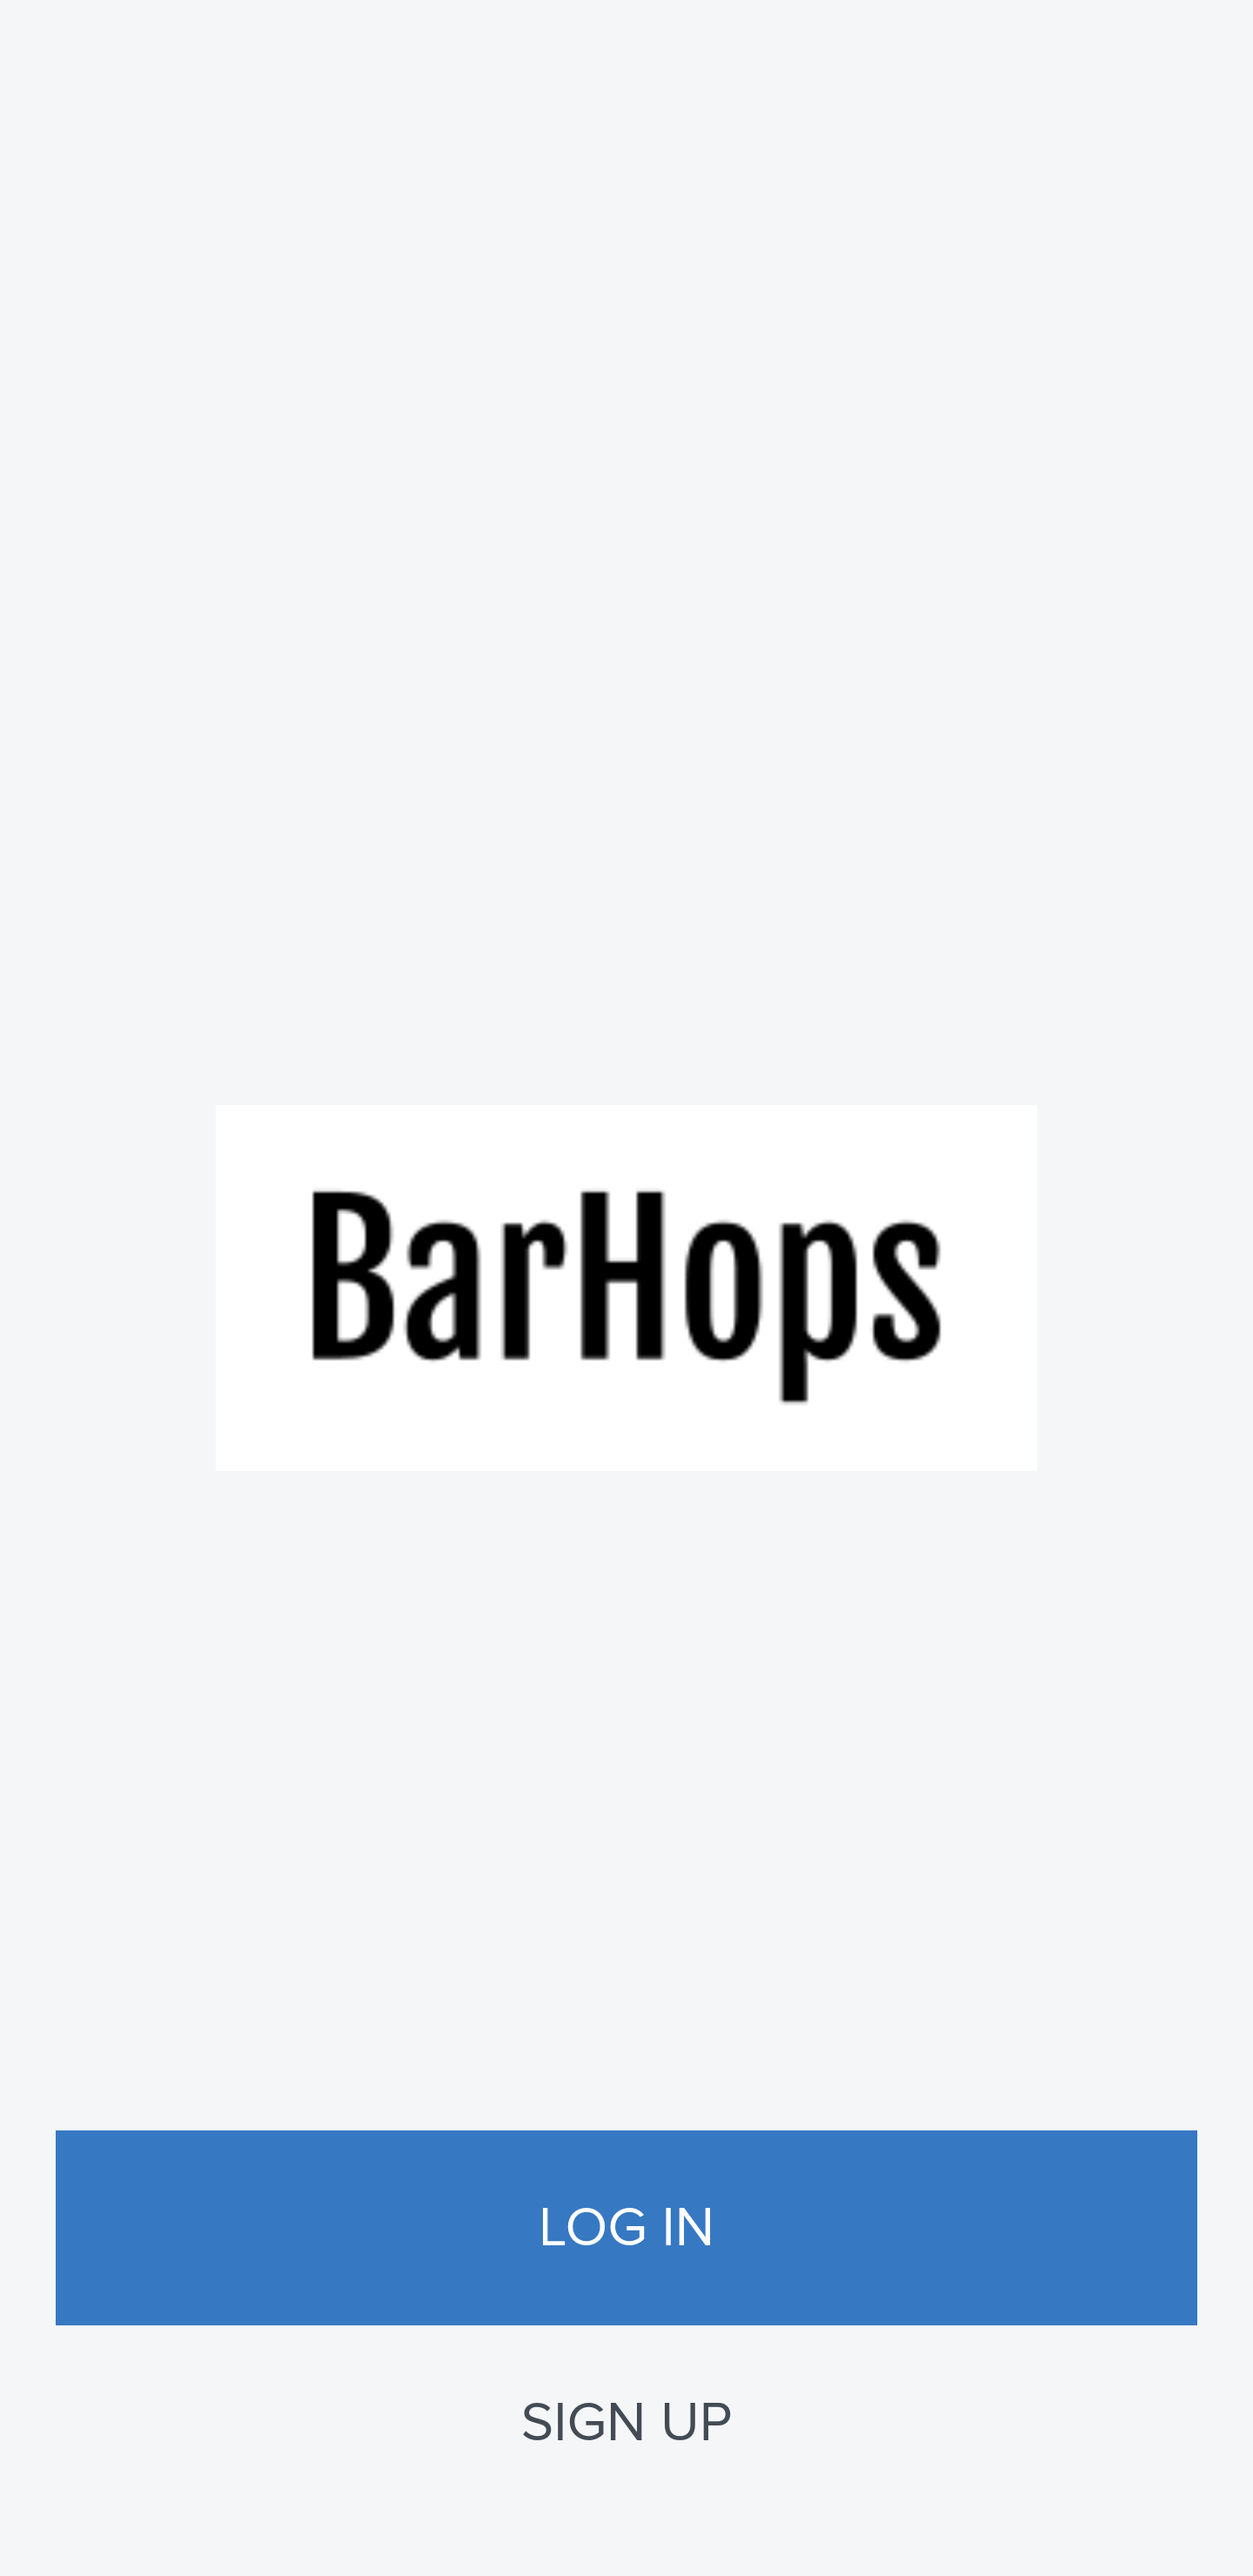
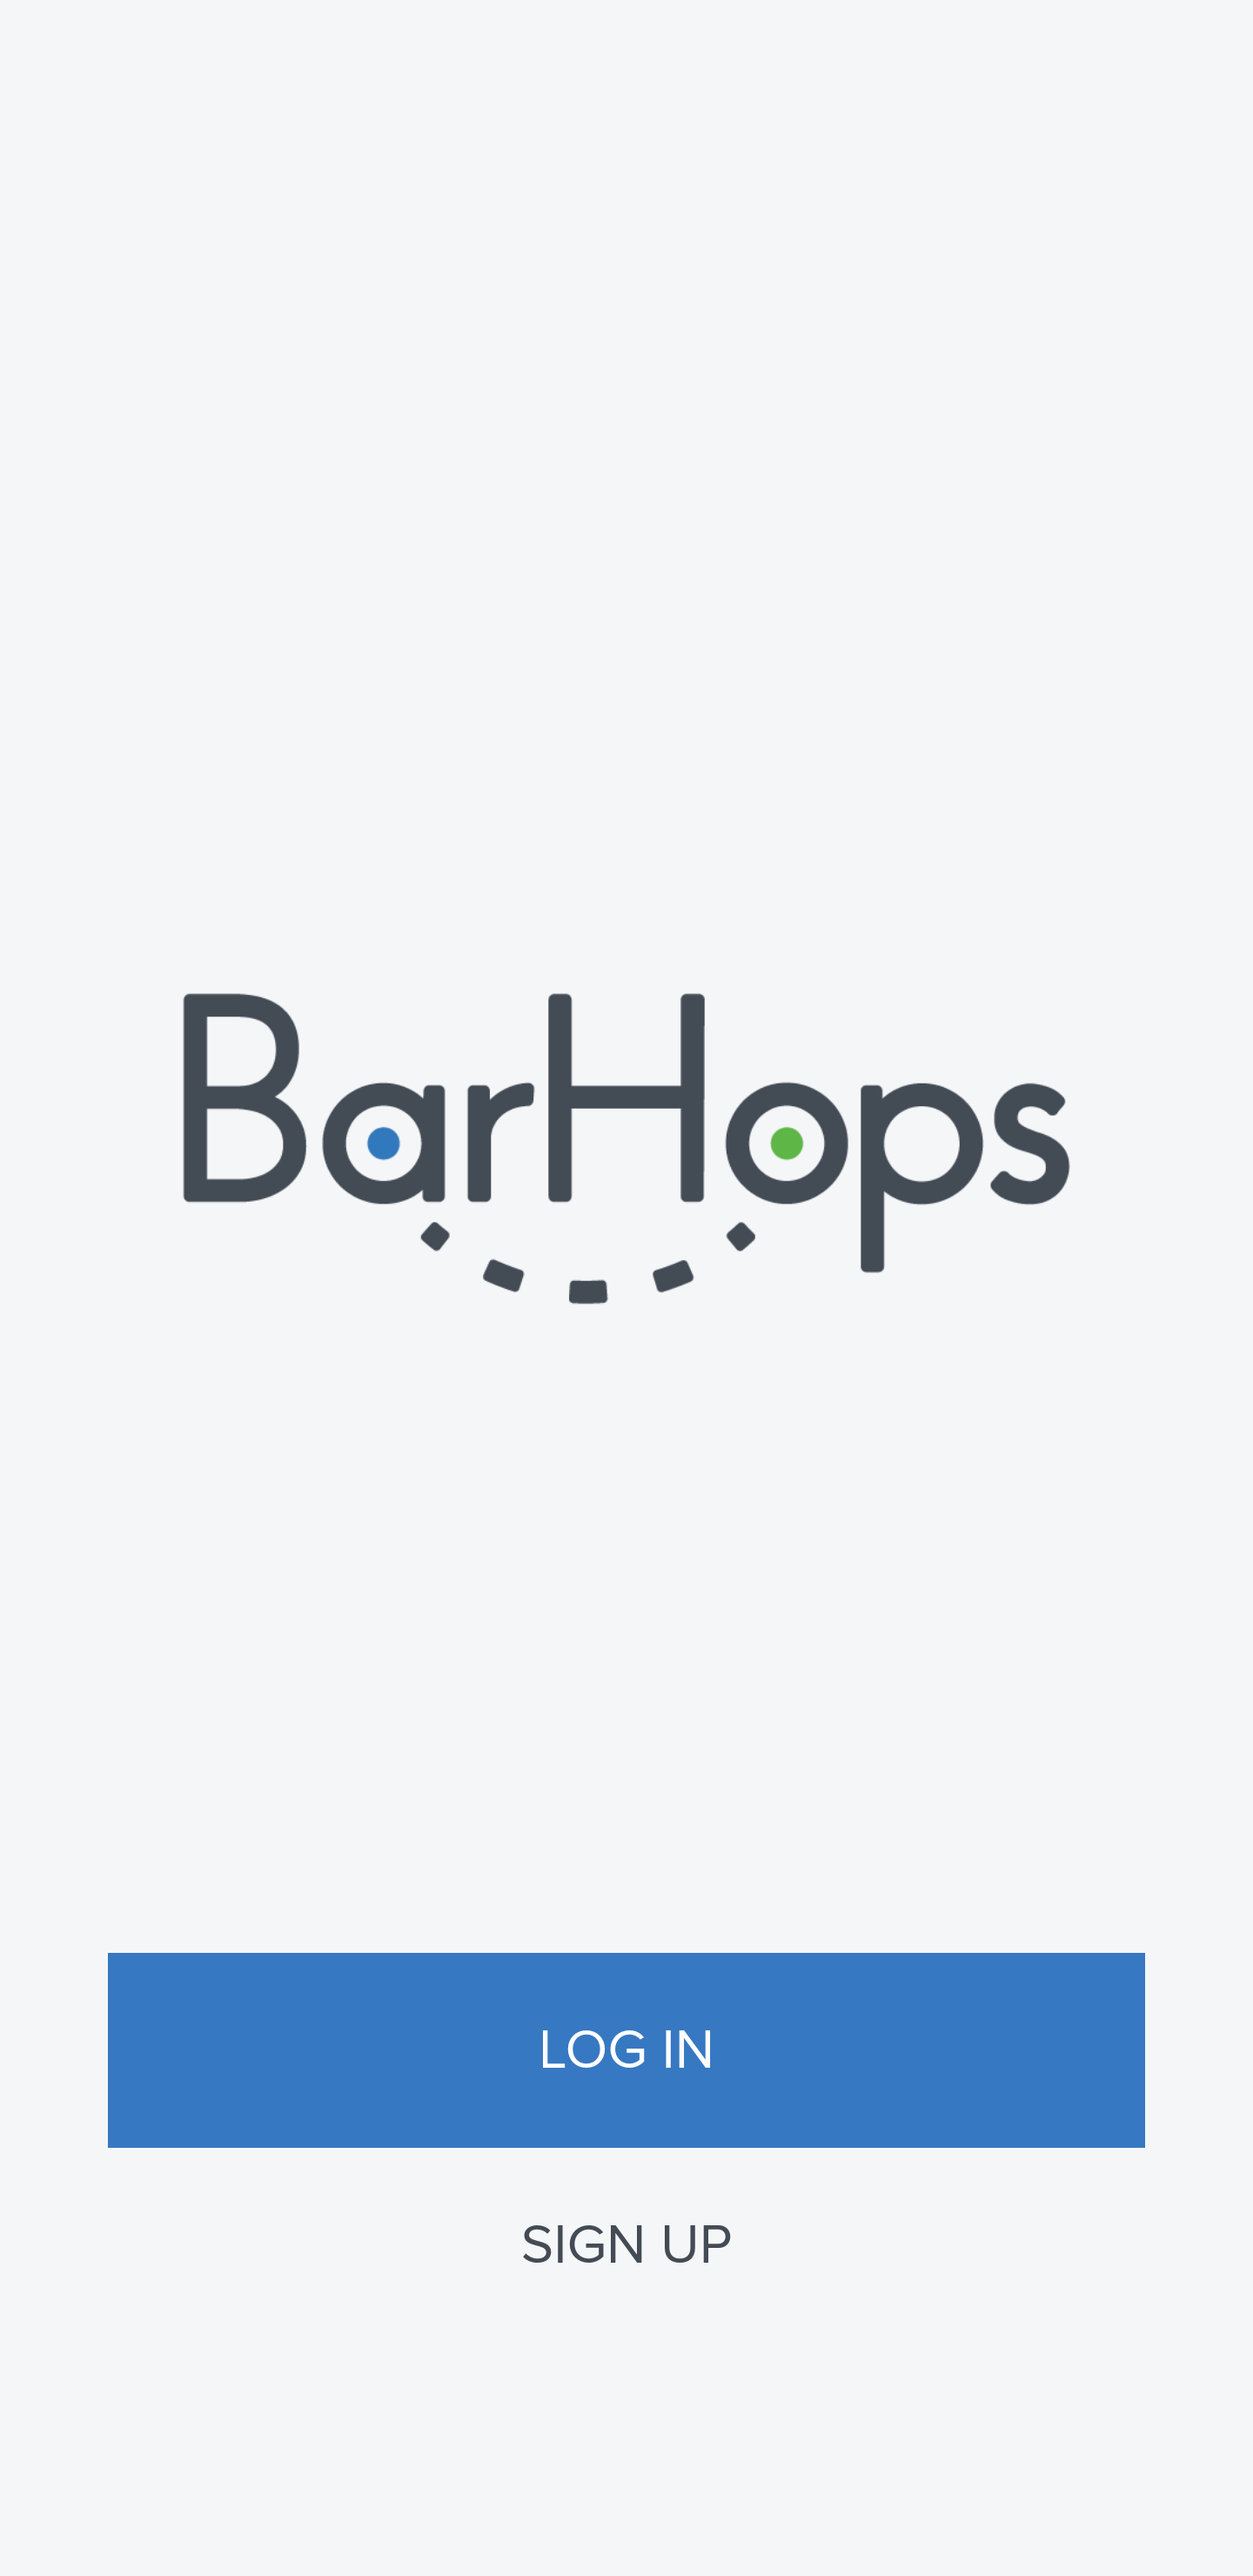
Update README and views

diff --git a/app/assets/stylesheets/style.scss b/app/assets/stylesheets/style.scss
@@ -15,6 +15,10 @@ body {
   max-width: 1000px;
 }
 
+.alert {
+  width: 100%;
+}
+
 .header-text {
   color: $text-color-light;  
 }
@@ -71,6 +75,7 @@ article {
 
 .add_new_button {
   background-color: $secondary-color;
+  height: 10%;
   width: 100%;
   font-family: "Proxima-Nova-Regular";
   font-size: 17px;

diff --git a/app/assets/stylesheets/home.scss b/app/assets/stylesheets/home.scss
@@ -1,10 +1,12 @@
 @import "variables";
 
-.logo {
-  height: 100vh;
-  display: flex;
-  justify-content: center;
-  align-items: center;
+.logo-container {
+  padding-top: 50%;
+  padding-bottom: 20%;
+  img {
+    object-fit: cover;
+    max-width: 100%;
+  }
 }
 
 .signup {

diff --git a/README.md b/README.md
@@ -16,28 +16,25 @@ Here is the user journey for the app:
   * A list of all transactions created by the logged-in user is displayed (sorted by most recent).
   * Each transaction displays its name, amount and date, and an icon of the group it belongs to.
   * An action button "Add new" is displayed.
-4. When the user opens "All my external transactions" page (see the *Transactions list page* screenshot above):
-  * A list of all transactions that are created by a logged-in user but **not assigned to any group** (sorted by most recent).
-  * The design of the page is similar to the "All my transactions".
+4. When the user opens "All my external transactions" page:
+  * A list of all transactions that are created by a logged-in user but not assigned to any group (sorted by most recent).
 5. When the user opens "All groups" page:
-  * A list of all groups is displayed (example ideas for names: "Kitchen renovation", "Books, music & culture", "Car maintenance") in alphabetical order.
+  * A list of all groups is displayed in alphabetical order.
   * Each group displays its icon, name, and creation date.
   * Each group is clickable and opens the "Group transactions" page.
   * An action button "Create new" is displayed.
-  * The design of the page is similar to the "User profile page"
 6. When the user opens the "Group transactions" page:
   * A list of all transactions that belong to that group is displayed.
-  * The design of the page is similar to the "All my transactions". Besides the information that appears in All my transactions page, each transaction displays the **name of the author** of the transaction.
+  * Each transaction displays the name of the author of the transaction.
 7. When the user opens "Create new group" or "Add new transaction" page:
   * A form with all necessary fields is displayed.
-  * It's not in the given design, but you should make an effort to follow the same style of the other pages.
 
 ## Screenshot
-![screenshot](./app/assets/images/screenshot_00.png)
-![screenshot](./app/assets/images/screenshot_01.png)
-![screenshot](./app/assets/images/screenshot_02.png)
-![screenshot](./app/assets/images/screenshot_03.png)
-![screenshot](./app/assets/images/screenshot_04.png)
+<img src="./app/assets/images/screenshot_00.png" alt="screenshot" width="250"/>
+<img src="./app/assets/images/screenshot_01.png" alt="screenshot" width="250"/>
+<img src="./app/assets/images/screenshot_02.png" alt="screenshot" width="250"/>
+<img src="./app/assets/images/screenshot_03.png" alt="screenshot" width="250"/>
+<img src="./app/assets/images/screenshot_04.png" alt="screenshot" width="250"/>
 
 ## Live Demo
 
